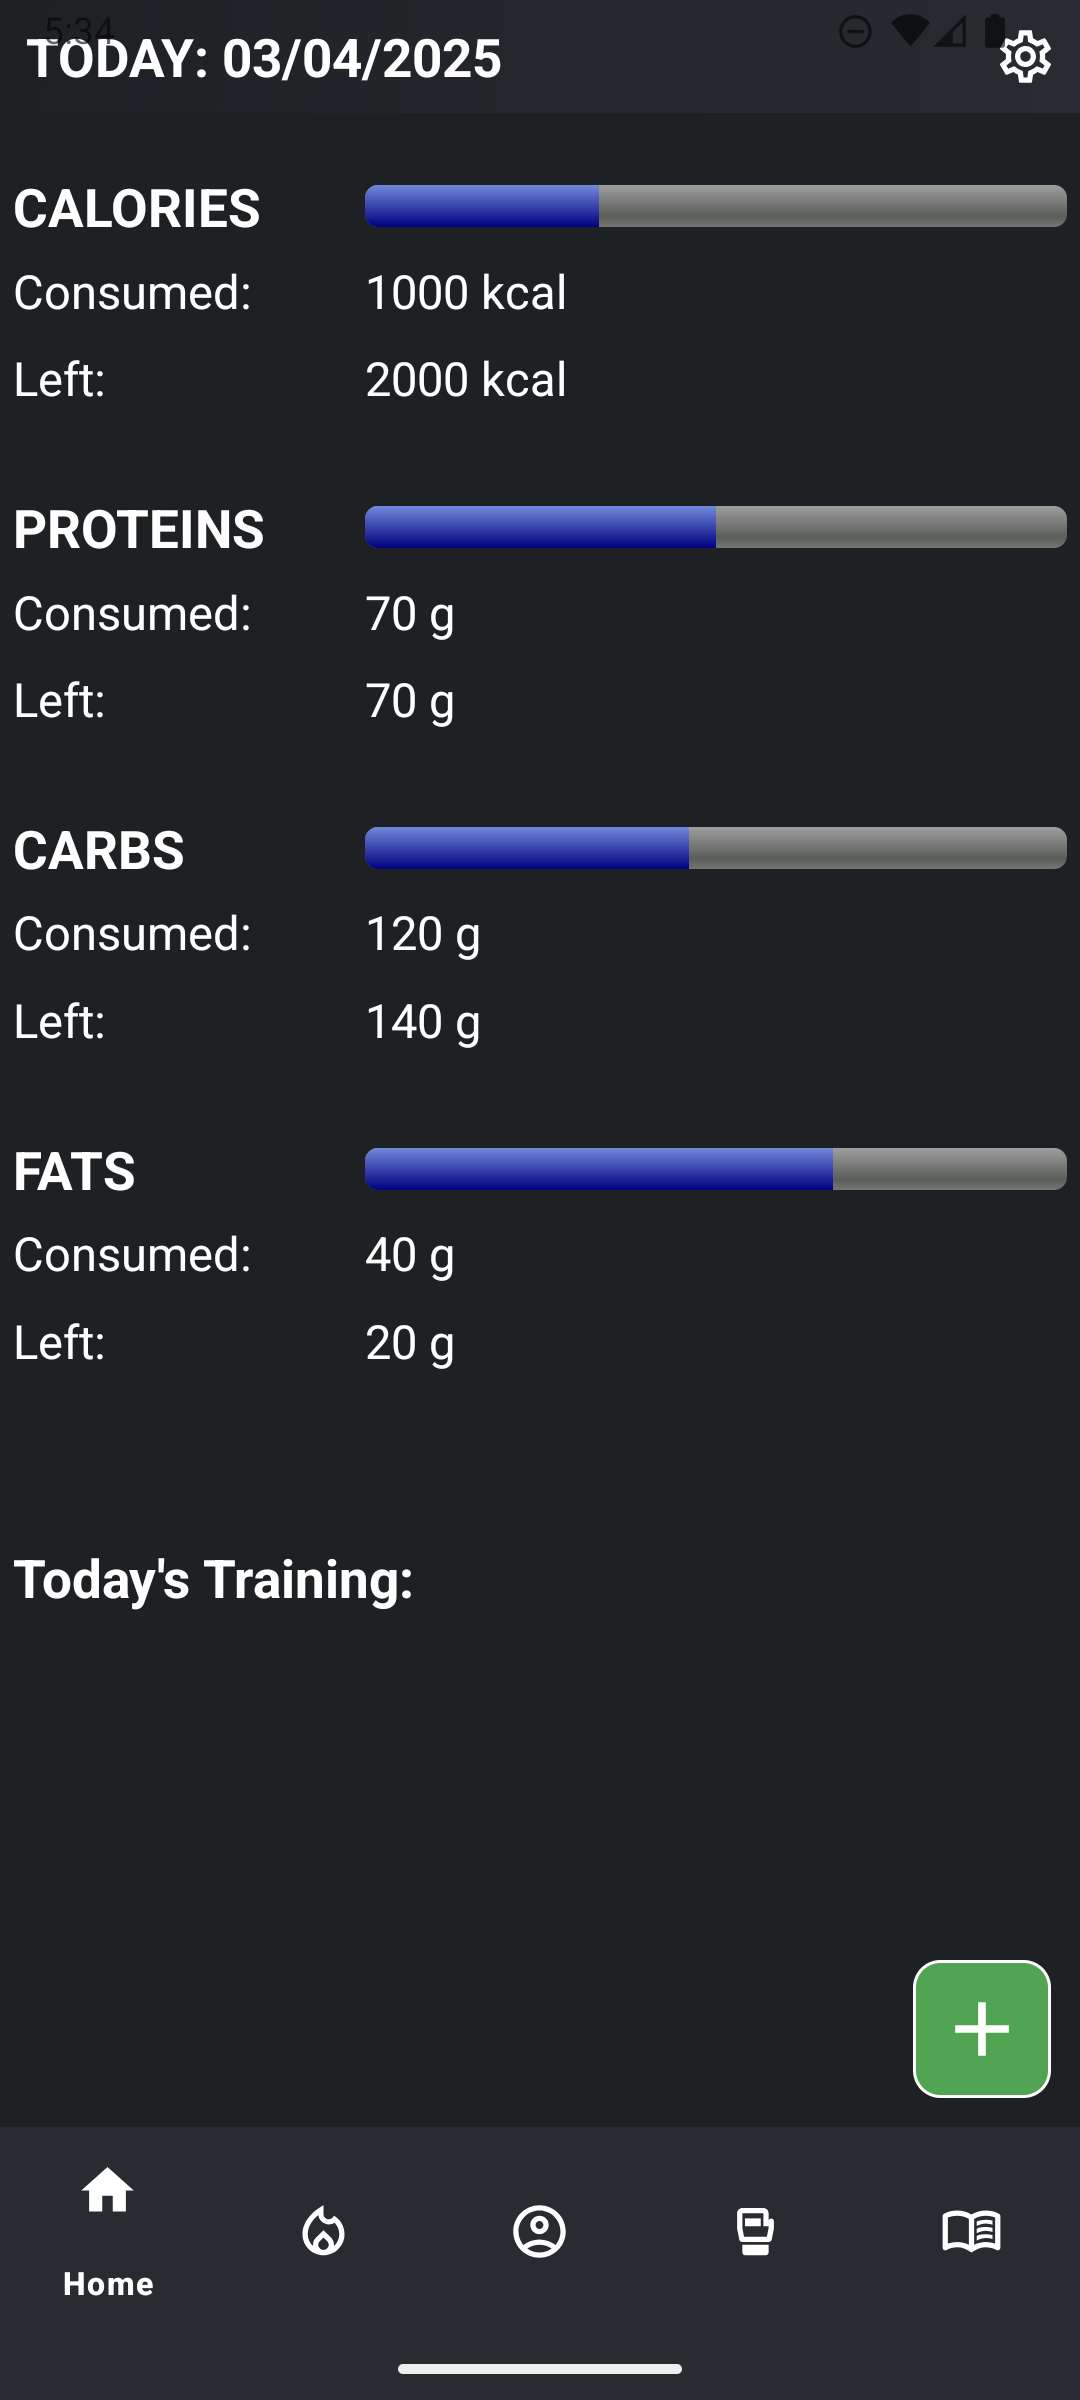
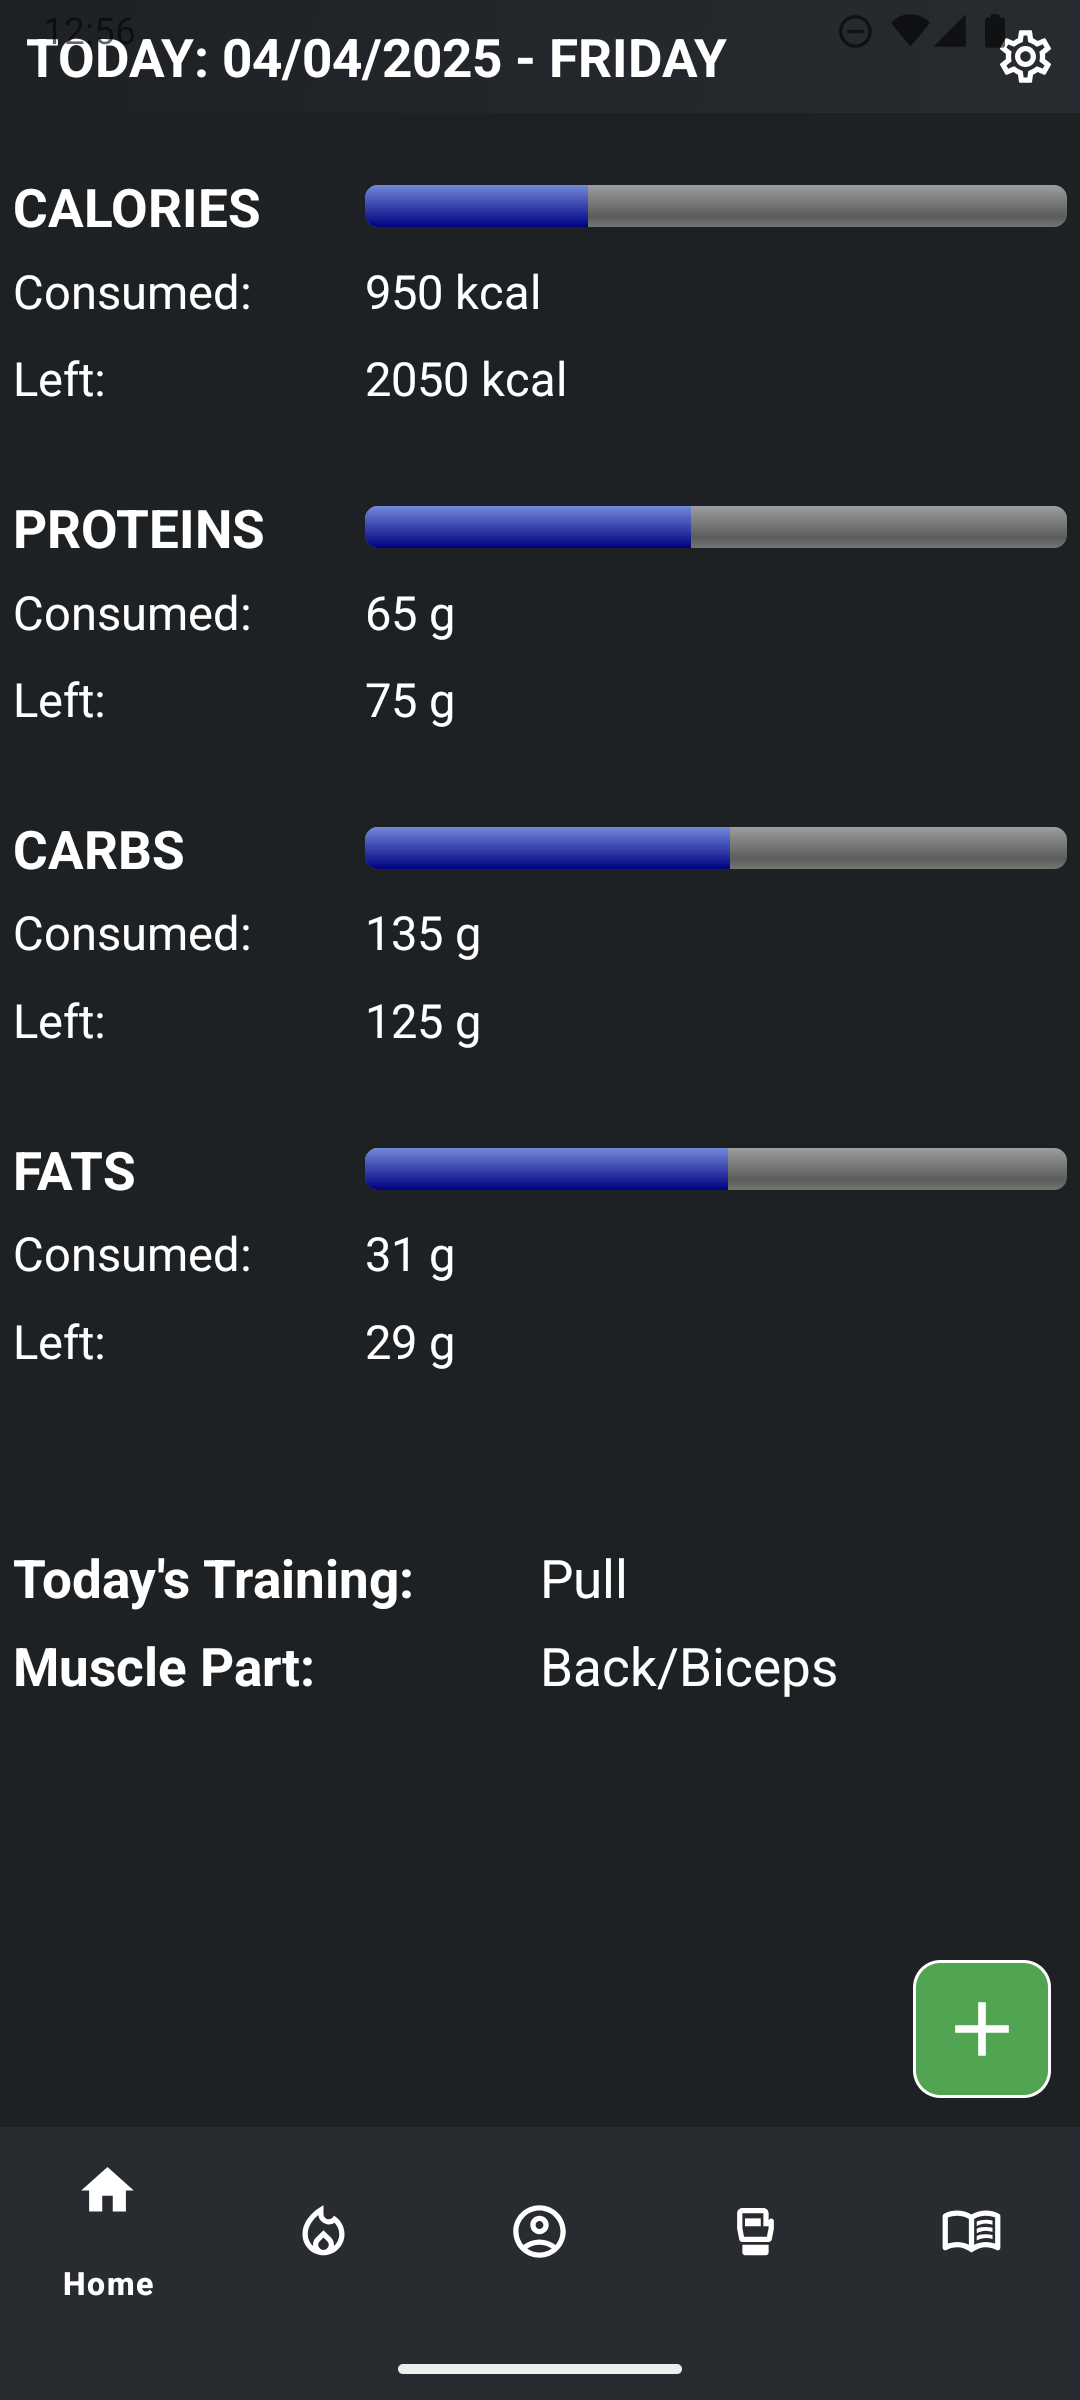
Small changes Added workout part in MainActivityFragment, new field in WorkoutData (note)

diff --git a/app/src/main/java/com/example/myapplication/fragments/MainFragment.kt b/app/src/main/java/com/example/myapplication/fragments/MainFragment.kt
@@ -14,11 +14,13 @@ import com.example.myapplication.R
 import com.example.myapplication.data.models.AccountData
 import com.example.myapplication.data.viewmodel.AccountViewModel
 import com.example.myapplication.data.viewmodel.FoodViewModel
+import com.example.myapplication.data.viewmodel.WorkoutViewModel
 
 class MainFragment : Fragment() {
 
     private lateinit var foodViewModel: FoodViewModel
     private lateinit var accountViewModel: AccountViewModel
+    private lateinit var workoutViewModel: WorkoutViewModel
 
     private lateinit var progressBarCalories: ProgressBar
     private lateinit var progressBarProteins: ProgressBar
@@ -41,7 +43,52 @@ class MainFragment : Fragment() {
 
     private var myAccount: AccountData? = null
 
+    private lateinit var todayTraining: TextView
+    private lateinit var todayMuscle: TextView
+
+
+    private fun initializeResources(view: View) {
+
+        foodViewModel = ViewModelProvider(this)[FoodViewModel::class.java]
+        accountViewModel = ViewModelProvider(this)[AccountViewModel::class.java]
+        workoutViewModel = ViewModelProvider(this)[WorkoutViewModel::class.java]
+
+        progressBarCalories = view.findViewById(R.id.progressBarCalories)
+        progressBarProteins = view.findViewById(R.id.progressBarProteins)
+        progressBarCarbs = view.findViewById(R.id.progressBarCarbs)
+        progressBarFats = view.findViewById(R.id.progressBarFats)
+
+        caloriesConsumed = view.findViewById(R.id.caloriesConsumed)
+        caloriesLeft = view.findViewById(R.id.caloriesLeft)
+        proteinsConsumed = view.findViewById(R.id.proteinsConsumed)
+        proteinsLeft = view.findViewById(R.id.proteinsLeft)
+        carbsConsumed = view.findViewById(R.id.carbsConsumed)
+        carbsLeft = view.findViewById(R.id.carbsLeft)
+        fatsConsumed = view.findViewById(R.id.fatsConsumed)
+        fatsLeft = view.findViewById(R.id.fatsLeft)
+
+        todayTraining = view.findViewById(R.id.todayTrainingTitle)
+        todayMuscle = view.findViewById(R.id.todayMusclePart)
+    }
+
+
     private fun setData() {
+
+        todayTraining.setText("")
+        todayMuscle.setText("")
+
+        workoutViewModel.readWorkouts.observe(viewLifecycleOwner, Observer { workouts ->
+
+            val currentDay = CurrentDate().getCurrentDay().lowercase()
+
+            for(workout in workouts) {
+                if(workout.day == currentDay){
+                    todayTraining.setText(workout.workoutTitle)
+                    todayMuscle.setText(workout.muscle)
+                }
+            }
+
+        })
 
         foodViewModel.readAllData.observe(viewLifecycleOwner, Observer { meals ->
 
@@ -56,7 +103,7 @@ class MainFragment : Fragment() {
                 }
             }
 
-            //updateProgressBars()
+            updateProgressBars()
         })
 
         accountViewModel.readAccount.observe(viewLifecycleOwner, Observer { account ->
@@ -136,22 +183,7 @@ class MainFragment : Fragment() {
     ): View? {
         val view = inflater.inflate(R.layout.fragment_main, container, false)
 
-        foodViewModel = ViewModelProvider(this)[FoodViewModel::class.java]
-        accountViewModel = ViewModelProvider(this)[AccountViewModel::class.java]
-
-        progressBarCalories = view.findViewById(R.id.progressBarCalories)
-        progressBarProteins = view.findViewById(R.id.progressBarProteins)
-        progressBarCarbs = view.findViewById(R.id.progressBarCarbs)
-        progressBarFats = view.findViewById(R.id.progressBarFats)
-
-        caloriesConsumed = view.findViewById(R.id.caloriesConsumed)
-        caloriesLeft = view.findViewById(R.id.caloriesLeft)
-        proteinsConsumed = view.findViewById(R.id.proteinsConsumed)
-        proteinsLeft = view.findViewById(R.id.proteinsLeft)
-        carbsConsumed = view.findViewById(R.id.carbsConsumed)
-        carbsLeft = view.findViewById(R.id.carbsLeft)
-        fatsConsumed = view.findViewById(R.id.fatsConsumed)
-        fatsLeft = view.findViewById(R.id.fatsLeft)
+        initializeResources(view)
 
         setData()
 

diff --git a/app/src/main/java/com/example/myapplication/fragments/WorkoutFragment.kt b/app/src/main/java/com/example/myapplication/fragments/WorkoutFragment.kt
@@ -50,6 +50,7 @@ class WorkoutFragment : Fragment() {
     private lateinit var createdAt: TextView
     private lateinit var title: EditText
     private lateinit var muscle: EditText
+    private lateinit var note: EditText
 
     private lateinit var workoutBtnDelete: Button
     private lateinit var workoutBtnUpdate: Button
@@ -82,6 +83,7 @@ class WorkoutFragment : Fragment() {
         createdAt = view.findViewById(R.id.workoutCreatedAt)
         title = view.findViewById(R.id.workoutTitle)
         muscle = view.findViewById(R.id.workoutMuscle)
+        note = view.findViewById(R.id.workoutNote)
 
         workoutBtnDelete = view.findViewById(R.id.btnWorkoutDelete)
         workoutBtnUpdate = view.findViewById(R.id.btnWorkoutUpdate)
@@ -106,6 +108,7 @@ class WorkoutFragment : Fragment() {
         createdAt.setText("/")
         title.setText("")
         muscle.setText("")
+        note.setText("")
 
     }
 
@@ -153,7 +156,7 @@ class WorkoutFragment : Fragment() {
         }
         else {
 
-            val workout = WorkoutData(0, day.text.toString(), muscle.text.toString(), title.text.toString(), CurrentDate().getCurrentData())
+            val workout = WorkoutData(0, day.text.toString(), muscle.text.toString(), title.text.toString(), CurrentDate().getCurrentData(), note.text.toString())
 
             if(workoutBtnUpdate.text.equals("ADD")){
 
@@ -223,6 +226,7 @@ class WorkoutFragment : Fragment() {
         createdAt.text = "/"
         title.setText("")
         muscle.setText("")
+        note.setText("")
 
         workoutsList.forEach{ workout ->
 
@@ -231,6 +235,7 @@ class WorkoutFragment : Fragment() {
                 createdAt.text = workout.createdAt
                 title.setText(workout.workoutTitle)
                 muscle.setText(workout.muscle)
+                note.setText(workout.note)
 
                 workoutBtnUpdate.setText("UPDATE")
                 workoutBtnUpdate.setBackgroundColor(ResourcesCompat.getColor(resources, R.color.discord_blue, null))

diff --git a/app/src/main/java/com/example/myapplication/data/models/WorkoutData.kt b/app/src/main/java/com/example/myapplication/data/models/WorkoutData.kt
@@ -26,7 +26,10 @@ data class WorkoutData (
     public var workoutTitle: String,
 
     @ColumnInfo(defaultValue = "('Created at' || CURRENT_TIMESTAMP)")
-    public var createdAt: String?
+    public var createdAt: String?,
+
+    @ColumnInfo(name = "note", defaultValue = "/")
+    public var note: String?
 )
 {
 
@@ -35,6 +38,7 @@ data class WorkoutData (
                 "\nDay: " + day +
                 "\nMuscle Part: " + muscle +
                 "\nWorkout title: " + workoutTitle +
+                "\nWorkout Note: " + note +
                 "\nCreated at: " + createdAt
     }
 

diff --git a/app/src/main/java/com/example/myapplication/utils/CurrentDate.kt b/app/src/main/java/com/example/myapplication/utils/CurrentDate.kt
@@ -1,6 +1,7 @@
 package com.example.myapplication.utils
 
 import java.text.SimpleDateFormat
+import java.time.LocalDate
 import java.util.Calendar
 
 class CurrentDate {
@@ -13,4 +14,13 @@ class CurrentDate {
     public fun getCurrentData() : String {
         return currentDate
     }
+
+    public fun getCurrentDay(): String {
+
+        val today = LocalDate.now()
+        val dayOfWeek = today.dayOfWeek.toString()
+
+        return dayOfWeek
+    }
+
 }

diff --git a/app/src/main/java/com/example/myapplication/MainActivityFragment.kt b/app/src/main/java/com/example/myapplication/MainActivityFragment.kt
@@ -48,7 +48,7 @@ class MainActivityFragment : AppCompatActivity() {
     private fun setDateTitle() {
 
         val currentData = findViewById<TextView>(R.id.date)
-        currentData.text = "TODAY: " + CurrentDate().getCurrentData()
+        currentData.text = "TODAY: " + CurrentDate().getCurrentData() + " - " + CurrentDate().getCurrentDay()
     }
 
     override fun onCreate(savedInstanceState: Bundle?) {

diff --git a/README.md b/README.md
@@ -63,11 +63,11 @@ Pics of the app's user interface:
 <details>
 <summary>Workout table</summary>
 
-| number | day             | muscle           | workout_title | createdAt   |
-|--------|-----------------|------------------|---------------|-------------|
-| 1      | monday          | chest/triceps    | push          | 30/03/2025  |
-| 2      | tuesday         | /                | rest          | 30/03/2025  |    
-| 3      | saturday/sunday | swimming/running | condition     | 20/03/2025  |
+| number | day             | muscle           | workout_title | createdAt   | note         |
+|--------|-----------------|------------------|---------------|-------------|--------------|
+| 1      | monday          | chest/triceps    | push          | 30/03/2025  | Prsonedeljak |
+| 2      | tuesday         | /                | rest          | 30/03/2025  | /            |
+| 3      | saturday/sunday | swimming/running | condition     | 20/03/2025  | Svimosreda   |
 
 </details>
 
